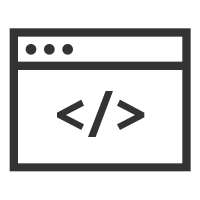
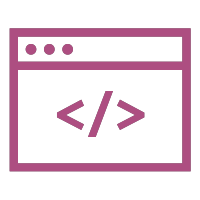
changement de couleur dans l'image, et labo3 terminé

diff --git a/index.htm b/index.htm
@@ -73,305 +73,249 @@
         }*/ -->
           <!-- un post c un enregistrement -->
           <div class="carte">
-            <!-- si pas decho sa ne saffiche pas -->
-            <h5>582-1M1</h5>
-            <h5>582-1M1 Création vidéo (75h)</h5>
-
+            <h6>582-1M1</h6>
+            <h5>Création vidéo</h5>
             <p>
               3-2-3 2,67 unités Aucun préalable. Ce cours initie l’étudiant au
               traitement des images en mouvement, au traitement du son ainsi
               qu'aux bases de la scénarisation linéaire. L’étudiant apprend à
               utiliser…
             </p>
-            <h6>Durée de (75h)</h6>
+            <h6>Durée: 75h</h6>
           </div>
           <div class="carte">
-            <!-- si pas decho sa ne saffiche pas -->
-            <h5>582-4C2</h5>
-            <h5>582-4C2 Gestion de projets multimédias (45h)</h5>
-
+            <h6>582-4C2</h6>
+            <h5>Gestion de projets multimédias</h5>
             <p>
               Ce cours initie l'étudiant aux rudiments de la gestion d’un projet
               multimédia. L’étudiant apprend à analyser les besoins liés à la
               réalisation du projet en termes de ressources humaines,
               matérielles…
             </p>
-            <h6>Durée de (45h)</h6>
+            <h6>Durée: 45h</h6>
           </div>
           <div class="carte">
-            <!-- si pas decho sa ne saffiche pas -->
-            <h5>582-4W4</h5>
-            <h5>582-4W4 Conception d’interfaces et développement Web (90h)</h5>
-
+            <h6>582-4W4</h6>
+            <h5>Conception d’interfaces et développement Web</h5>
             <p>
               Dans ce cours, l’étudiant poursuit son apprentissage de
               l’intégration de sites Web dynamiques à l’aide d’un gestionnaire
               de contenu. L’étudiant apprend à développer par programmation des
               thèmes personnalisés pour répondre…
             </p>
-            <h6>Durée de (90h)</h6>
+            <h6>Durée: 90h</h6>
           </div>
           <div class="carte">
-            <!-- si pas decho sa ne saffiche pas -->
-            <h5>582-4J4</h5>
-            <h5>582-4J4 Création de jeu en équipe (105h)</h5>
-
+            <h6>582-4J4</h6>
+            <h5>Création de jeu en équipe</h5>
             <p>
               Dans ce cours qui s'appuie sur une pédagogie par projets,
               l’étudiant réalise un projet d’envergure en équipe de travail.
               C’est l’occasion pour l’étudiant d’appliquer et d’intégrer
               l’ensemble des compétences acquises…
             </p>
-            <h6>Durée de(105h)</h6>
+            <h6>Durée: 105h</h6>
           </div>
           <div class="carte">
-            <!-- si pas decho sa ne saffiche pas -->
-            <h5>582-4PA</h5>
-            <h5>
-              582-4PA Interfaces Web réactives et animées &#8211; Cours au choix
-              (75h)
-            </h5>
-
+            <h6>582-4PA</h6>
+            <h5>Interfaces Web réactives et animées &#8211; Cours au choix</h5>
             <p>
               En session 4, l'étudiant doit choisir entre ce cours et le cours
               Animation 3D. Dans ce cours, l'étudiant ayant un intérêt plus
               marqué pour la programmation a la possibilité d'approfondir…
             </p>
-            <h6>Durée de (75h)</h6>
+            <h6>Durée: 75h</h6>
           </div>
           <div class="carte">
-            <!-- si pas decho sa ne saffiche pas -->
-            <h5>582-4MB</h5>
-            <h5>582-4MB Animation 3D (75h)</h5>
-
+            <h6>582-4MB</h6>
+            <h5>Animation 3D</h5>
             <p>
               En session 4, l'étudiant doit choisir entre ce cours et le cours
               Interfaces Web réactives et animées. Ce cours a pour but de
               permettre à l’étudiant d’approfondir les notions acquises…
             </p>
-            <h6>Durée de (75h)</h6>
+            <h6>Durée: 75h</h6>
           </div>
           <div class="carte">
-            <!-- si pas decho sa ne saffiche pas -->
-            <h5>393-5E1</h5>
-            <h5>
-              393-5E1 Méthodes de recherche et préparation au marché du travail
-              (45h)
-            </h5>
-
+            <h6>393-5E1</h6>
+            <h5>Méthodes de recherche et préparation au marché du travail</h5>
             <p>
               Ce cours permet à l’étudiant d'acquérir des habiletés en
               recherche, en organisation et en transmission d’informations
               numériques. L'étudiant est initié aux notions de base liées à la
               veille informationnelle et…
             </p>
-            <h6>Durée de (45h)</h6>
+            <h6>Durée: 45h</h6>
           </div>
           <div class="carte">
-            <!-- si pas decho sa ne saffiche pas -->
-            <h5>350-5N1</h5>
-            <h5>
-              350-5N1 Communication et dynamique d’une équipe de travail (45h)
-            </h5>
-
+            <h6>350-5N1</h6>
+            <h5>Communication et dynamique d’une équipe de travail</h5>
             <p>
               Ce cours permet à l’étudiant de développer ses habiletés en
               matière de communication interpersonnelle et de mieux interagir
               dans une équipe multimédia. L’étudiant est appelé à développer sa
               capacité́ à…
             </p>
-            <h6>Durée de (45h)</h6>
+            <h6>Durée: 45h</h6>
           </div>
           <div class="carte">
-            <!-- si pas decho sa ne saffiche pas -->
-            <h5>582-5W5</h5>
-            <h5>582-5W5 Projet Web en équipe (105h)</h5>
-
+            <h6>582-5W5</h6>
+            <h5>Projet Web en équipe</h5>
             <p>
               Préalable relatif : Conception d’interfaces et développement Web
               Dans ce cours, qui s'appuie sur une pédagogie par projets,
               l’étudiant participe à la réalisation d’un produit multimédia en
               ligne pour un…
             </p>
-            <h6>Durée de(105h)</h6>
+            <h6>Durée: 105h</h6>
           </div>
           <div class="carte">
-            <!-- si pas decho sa ne saffiche pas -->
-            <h5>582-5MB</h5>
-            <h5>
-              582-5MB Technologies émergentes et avancées – volet Création (60h)
-            </h5>
-
+            <h6>582-5MB</h6>
+            <h5>Technologies émergentes et avancées – volet Création</h5>
             <p>
               En session 5, l'étudiant doit choisir entre ce cours et le cours
               Technologies émergentes et avancées – volet Programmation. Dans ce
               cours, l’étudiant davantage intéressé par les aspects créatifs du…
             </p>
-            <h6>Durée de (60h)</h6>
+            <h6>Durée: 60h</h6>
           </div>
           <div class="carte">
-            <!-- si pas decho sa ne saffiche pas -->
-            <h5>582-3J3</h5>
-            <h5>582-3J3 Création de jeu 3D (75h)</h5>
-
+            <h6>582-3J3</h6>
+            <h5>Création de jeu 3D</h5>
             <p>
               Ce cours permet à l'étudiant d'intégrer différents types de médias
               à l'aide des fonctionnalités d'un logiciel d'intégration 3D.
               L'étudiant est amené à contrôler et à animer les éléments d'une
               application…
             </p>
-            <h6>Durée de (75h)</h6>
+            <h6>Durée: 75h</h6>
           </div>
           <div class="carte">
-            <!-- si pas decho sa ne saffiche pas -->
-            <h5>582-3W3</h5>
-            <h5>582-3W3 Création de sites Web dynamiques (90h)</h5>
-
+            <h6>582-3W3</h6>
+            <h5>Création de sites Web dynamiques</h5>
             <p>
               Dans ce cours, les notions acquises dans les cours « 582-1W1 :
               Mise en page Web » et « 582-2W2 : Animation et interactivité Web »
               sont approfondies et complétées…
             </p>
-            <h6>Durée de (90h)</h6>
+            <h6>Durée: 90h</h6>
           </div>
           <div class="carte">
-            <!-- si pas decho sa ne saffiche pas -->
-            <h5>582-3C1</h5>
-            <h5>582-3C1 Design d’interactivité (75h)</h5>
-
+            <h6>582-3C1</h6>
+            <h5>Design d’interactivité</h5>
             <p>
               L’étudiant apprend à concevoir des expériences interactives en
               plaçant les besoins de l’utilisateur au cœur de sa création. Ce
               cours transpose les techniques de conception et de communication
               graphique dans…
             </p>
-            <h6>Durée de (75h)</h6>
+            <h6>Durée: 75h</h6>
           </div>
           <div class="carte">
-            <!-- si pas decho sa ne saffiche pas -->
-            <h5>582-1M1</h5>
-            <h5>582-1M1 Création vidéo (75h)</h5>
-
+            <h6>582-1M1</h6>
+            <h5>Création vidéo</h5>
             <p>
               3-2-3 2,67 unités Aucun préalable. Ce cours initie l’étudiant au
               traitement des images en mouvement, au traitement du son ainsi
               qu'aux bases de la scénarisation linéaire. L’étudiant apprend à
               utiliser…
             </p>
-            <h6>Durée de (75h)</h6>
+            <h6>Durée: 75h</h6>
           </div>
           <div class="carte">
-            <!-- si pas decho sa ne saffiche pas -->
-            <h5>582-1M2</h5>
-            <h5>582-1M2 Conception graphique et imagerie matricielle (90h)</h5>
-
+            <h6>582-1M2</h6>
+            <h5>Conception graphique et imagerie matricielle</h5>
             <p>
               Ce cours initie l'étudiant aux rudiments de la conception et de la
               communication graphique ainsi qu'au traitement des images fixes
               matricielles. On y aborde les notions de base sur le…
             </p>
-            <h6>Durée de (90h)</h6>
+            <h6>Durée: 90h</h6>
           </div>
           <div class="carte">
-            <!-- si pas decho sa ne saffiche pas -->
-            <h5>582-1W1</h5>
-            <h5>582-1W1 Mise en page Web (75h)</h5>
-
+            <h6>582-1W1</h6>
+            <h5>Mise en page Web</h5>
             <p>
               Dans ce cours, l'étudiant apprend les techniques de mise en page
               Web en utilisant les langages de balisage et de feuilles de
               styles. L'étudiant apprend également à analyser et schématiser…
             </p>
-            <h6>Durée de (75h)</h6>
+            <h6>Durée: 75h</h6>
           </div>
           <div class="carte">
-            <!-- si pas decho sa ne saffiche pas -->
-            <h5>582-1J1</h5>
-            <h5>582-1J1 Animation et interactivité en jeu (75h)</h5>
-
+            <h6>582-1J1</h6>
+            <h5>Animation et interactivité en jeu</h5>
             <p>
               Ce cours est consacré aux concepts de base nécessaires à la
               création d’un jeu numérique. Le cours porte, d’une part, sur
               l’animation des médias : l’étudiant y apprend à importer…
             </p>
-            <h6>Durée de (75h)</h6>
+            <h6>Durée: 75h</h6>
           </div>
           <div class="carte">
-            <!-- si pas decho sa ne saffiche pas -->
-            <h5>582-2M3</h5>
-            <h5>582-2M3 Effets spéciaux et animation (60h)</h5>
-
+            <h6>582-2M3</h6>
+            <h5>Effets spéciaux et animation</h5>
             <p>
               Ce cours permet d'approfondir la formation de l’étudiant en
               matière de traitement d’images en mouvement et de traitement
               sonore. L’étudiant poursuit son apprentissage des techniques de
               prise de vues avec…
             </p>
-            <h6>Durée de (60h)</h6>
+            <h6>Durée: 60h</h6>
           </div>
           <div class="carte">
-            <!-- si pas decho sa ne saffiche pas -->
-            <h5>582-2M4</h5>
-            <h5>582-2M4 Conception graphique et imagerie vectorielle (90h)</h5>
-
+            <h6>582-2M4</h6>
+            <h5>Conception graphique et imagerie vectorielle</h5>
             <p>
               Dans ce cours, l’étudiant poursuit l’apprentissage des notions
               liées à la conception, à la communication graphique et au
               traitement des images fixes vectorielles. L'étudiant développe un
               concept créatif décliné en…
             </p>
-            <h6>Durée de (90h)</h6>
+            <h6>Durée: 90h</h6>
           </div>
           <div class="carte">
-            <!-- si pas decho sa ne saffiche pas -->
-            <h5>582-2W2</h5>
-            <h5>582-2W2 Animation et interactivité Web (75h)</h5>
-
+            <h6>582-2W2</h6>
+            <h5>Animation et interactivité Web</h5>
             <p>
               Ce cours permet à l'étudiant d'acquérir les compétences de base
               requises pour programmer l'interactivité de
               l'interface-utilisateur d'une application multimédia en ligne. Les
               notions abordées dans les cours « 582-1W1 Mise…
             </p>
-            <h6>Durée de (75h)</h6>
+            <h6>Durée: 75h</h6>
           </div>
           <div class="carte">
-            <!-- si pas decho sa ne saffiche pas -->
-            <h5>582-2J2</h5>
-            <h5>582-2J2 Création de jeu 2D (60h)</h5>
-
+            <h6>582-2J2</h6>
+            <h5>Création de jeu 2D</h5>
             <p>
               Dans ce cours, l’étudiant approfondit la programmation graphique
               et s’initie aux concepts de base d'un moteur de jeu. Le cours
               permet d'approfondir la maîtrise de la structure d'affichage ainsi
               que…
             </p>
-            <h6>Durée de (60h)</h6>
+            <h6>Durée: 60h</h6>
           </div>
           <div class="carte">
-            <!-- si pas decho sa ne saffiche pas -->
-            <h5>582-3M5</h5>
-            <h5>582-3M5 Imagerie 3D (75h)</h5>
-
+            <h6>582-3M5</h6>
+            <h5>Imagerie 3D</h5>
             <p>
               Dans ce cours, l’étudiant est initié au monde de l’imagerie de
               synthèse. Il est amené à maîtriser les outils et les
               fonctionnalités de base d’un logiciel de production 3D pour…
             </p>
-            <h6>Durée de (75h)</h6>
+            <h6>Durée: 75h</h6>
           </div>
           <div class="carte">
-            <!-- si pas decho sa ne saffiche pas -->
-            <h5>582-6N3</h5>
-            <h5>582-6N3 Stage (285h)</h5>
-
+            <h6>582-6N3</h6>
+            <h5>Stage</h5>
             <p>
               Le stage en entreprise complète la formation de l’étudiant en lui
               permettant d'intégrer et de mettre en application ses différents
               acquis dans le milieu professionnel. L’étudiant joint une
               véritable équipe…
             </p>
-            <h6>Durée de(285h)</h6>
+            <h6>Durée: 285h</h6>
           </div>
         </div>
       </section>
